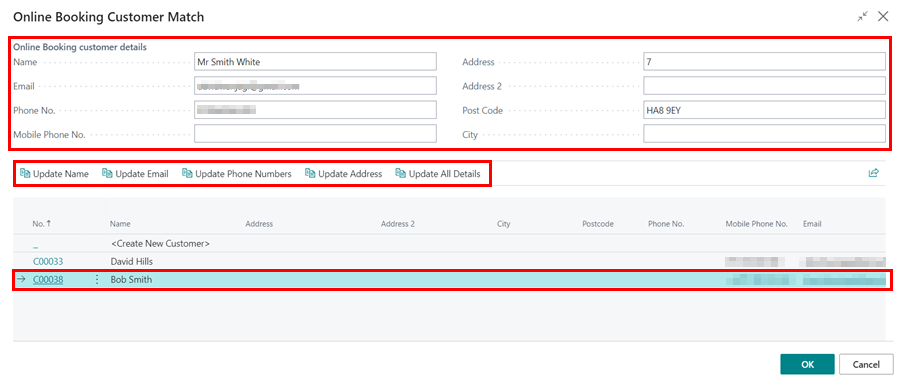
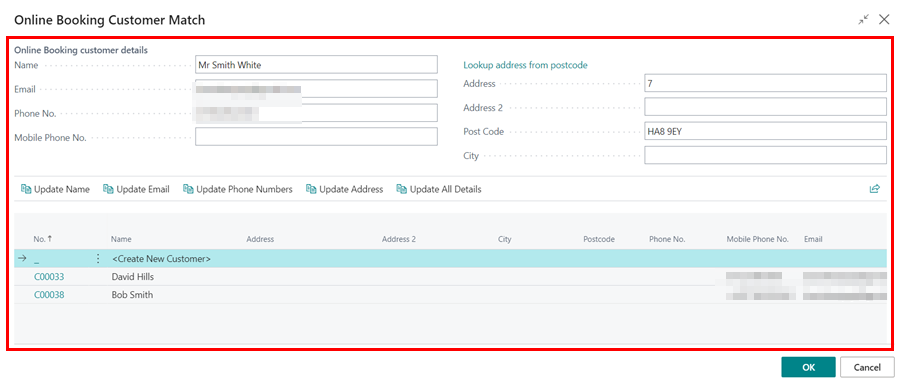
reviewing online

Changed region(s): [[0.0, 0.0287, 0.9956, 1.0], [0.9333, 0.0287, 0.9956, 0.0574]]

diff --git a/docs/garagehive-reviewing-online-bookings-and-enquiries.md b/docs/garagehive-reviewing-online-bookings-and-enquiries.md
@@ -19,15 +19,19 @@ title: Reviewing Online Bookings and Enquiries
 
    ![](media/garagehive-reviewing-onlinebooking-and-enquiries4.png)
 
-5. This will open the **Online Booking Customer Match** page, where you have the option to link an existing customer to the document, update details of the existing customer from the online booking, or create a new customer.
-6. To update the existing customer’s information, select the customer from the list and choose one of the following options: **Update Name, Update Email, Update Phone Numbers, Update Address, or Update All Details**.
-7. The new customer details are show at the **Online Booking Customer Details** section where they can be edited. 
+5. This will open the **Online Booking Customer Match** page, where you have the option to create a new customer, link an existing customer to the document or update details of the existing customer from the online booking.
 
    ![](media/garagehive-reviewing-onlinebooking-and-enquiries5.png)
 
-8. To create a new customer from the online booking, select the **Create New Customer** option. Click **OK** when done.
+6. The details provided by the customer in online booking form are show at the **Online Booking Customer Details** section where they can be edited.
+7. Use the **Lookup address from postcode** to update the customers address.
+8. To create a new customer from the online booking details, select the **Create New Customer** option. Click **OK** when done.
 
    ![](media/garagehive-reviewing-onlinebooking-and-enquiries6.png)
+
+8. If the customer details from the online booking match an existing customer in the system, select the customer from the list and choose one of the following options: **Update Name, Update Email, Update Phone Numbers, Update Address, or Update All Details**. Click **OK** when done.
+
+   ![](media/garagehive-reviewing-onlinebooking-and-enquiries7.png)
 
 9. After reviewing a line, select it and choose **Mark as Reviewed** from the menu bar.
 

diff --git a/docs/garagehive-using-tyre-click.md b/docs/garagehive-using-tyre-click.md
@@ -3,6 +3,8 @@ layout: docs
 title: Using TyreClick Booking System in Garage Hive 
 ---
 
+<a name="top"></a>
+
 # Using TyreClick Booking System in Garage Hive
 **TyreClick** is a [Micheldever](https://www.micheldever.co.uk/){:target="_blank"} tyre supplier online booking service, where customers can buy tyres and have them fitted at your garage at a certain date. TyreClick is now integrated with Garage Hive to enable online booking of tyre services, and creating of Jobsheet from the booking.
 
@@ -72,3 +74,6 @@ Here is the process of the customer getting to use the TyreClick online booking:
    ![](media/garagehive-tyre-click-example3.png)
 
 9. To view the booking made by the customer in the Garage Hive system, refer to [**Reviewing Online Bookings and Enquiries**](garagehive-reviewing-online-bookings-and-enquiries.html) for more details.
+
+
+[Go back to top](#top)
